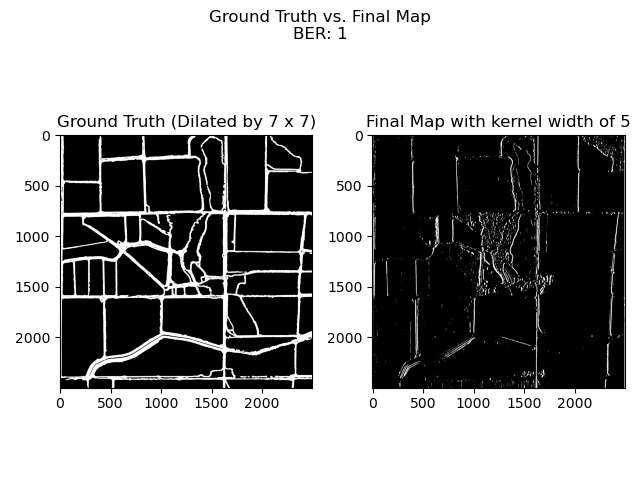
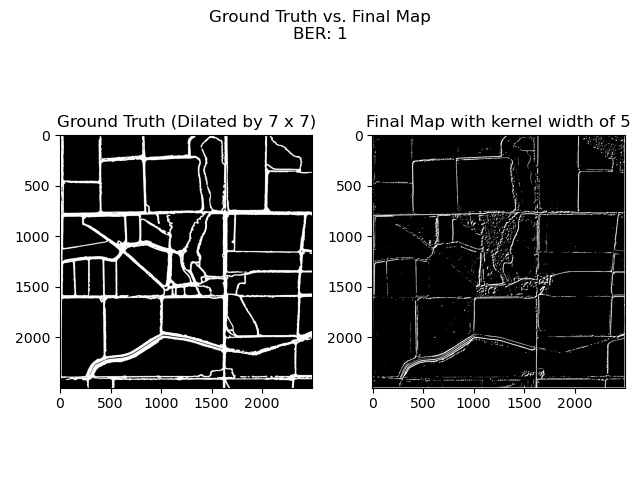
Using both Vertical and Horizontal Sobel Filters

diff --git a/kernel_test.py b/kernel_test.py
@@ -48,18 +48,36 @@ def objfunction(w):
             f = np.transpose(f)
         return f
 
-    x = createFilter_v2(w)
+    # Get vertical and horizontal sobels
+    vert_sobel = createFilter_v2(w)
+    horz_sobel = createFilter_v2(w, o='horz')
 
     # Apply the filter on the image
-    edge_pred = convolve2d(image, x, mode='same')
+    vert_edge_pred = convolve2d(image, vert_sobel, mode='same')
+    horz_edge_pred = convolve2d(image, horz_sobel, mode='same')
 
+    edge_pred = np.add(vert_edge_pred, horz_edge_pred)
 
     #Use otsu histogram thresholding to find an optimal threshold to binarize the edge prediction image
+    # vert_val = filters.threshold_otsu(vert_edge_pred)
+    # vert_final_map = np.zeros_like(vert_edge_pred)
+
+    # horz_val = filters.threshold_otsu(horz_edge_pred)
+    # horz_final_map = np.zeros_like(horz_edge_pred)
+
     val = filters.threshold_otsu(edge_pred)
+
     final_map = np.zeros_like(edge_pred)
 
+    print(final_map.shape)
+    print(ground_truth.shape)
+
     # Binarize the image using the optimal threshold found using otsu
+    # vert_final_map[vert_edge_pred > vert_val] = 1
+    # horz_final_map[horz_edge_pred > horz_val] = 1
     final_map[edge_pred > val] = 1
+
+
 
     # Compute BER
     cm = confusion_matrix(ground_truth.argmax(axis=-1).ravel(), final_map.argmax(axis=-1).ravel())
@@ -94,6 +112,6 @@ def objfunction(w):
     return BER
 
 # Call function
-for i in np.arange(1, 10, 2):
+for i in np.arange(1, 25, 2):
     print(f"BER is {objfunction(i)} for width of {i}")
     print()
